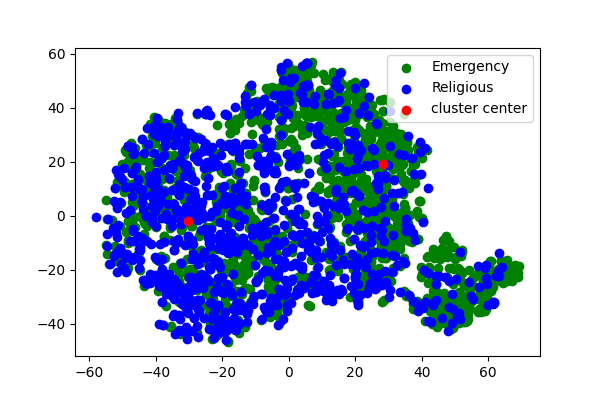
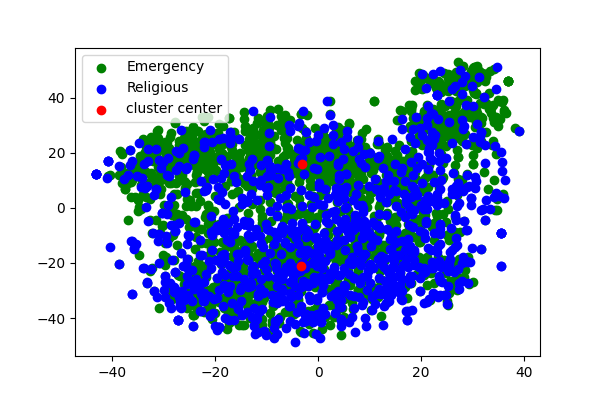
modified:   prototype/2_cluster_plot.png 	modified:   prototype/clustering.py 	modified:   prototype/imagemap.png

diff --git a/prototype/clustering.py b/prototype/clustering.py
@@ -69,10 +69,48 @@ feat = np.array(list(data.values()))
 # reshape so that there are 210 samples of 4096 vectors
 feat = feat.reshape(-1,4096)
 # reduce the amount of dimensions in the feature vector
-pca = PCA(n_components=10, random_state=22)
-pca.fit(feat)
-x = pca.transform(feat)
-
+maxp=0
+maxk=0
+maxs=0
+for n in range(1,101): #need to update for real runs
+    pca = PCA(n_components=n, random_state=22)
+    pca.fit(feat)
+    x = pca.transform(feat)
+    print(sum(pca.explained_variance_ratio_))
+    for k in range(2,50):
+        kmeans=KMeans(n_clusters=k,random_state=22)
+        kmeans.fit(x)
+        counts=np.bincount(kmeans.labels_)
+        if len(np.where(counts>1)[0])!=k: #check to ensure clusters have more than 1 element
+            continue
+        emergency_counts=[]
+        religious_counts=[]
+        for i in range(k):
+            emergency_counts.append(0)
+            religious_counts.append(0)
+        for file, cluster in zip(filenames, kmeans.labels_):
+            if emergency==os.path.dirname(file):
+                emergency_counts[cluster]+=1
+            elif religious==os.path.dirname(file):
+                religious_counts[cluster]+=1
+        emergency_success=0
+        religious_success=0
+        for i in range(k):
+            if emergency_counts[i]>religious_counts[i]:
+                emergency_success+=emergency_counts[i]
+            if emergency_counts[i]<religious_counts[i]:
+                religious_success+=religious_counts[i]
+        #these are hardcoded because I'm lazy
+        total_success=(emergency_success+religious_success)/2443
+        print("Current n,k: %d, %d" %(n,k))
+        print("Emergency success %:"+str(emergency_success/1462))
+        print("Relgiious success %:"+str(religious_success/981))
+        print("Total success %:"+str(total_success))
+        if total_success>maxs:
+            maxs=total_success
+            maxp=n
+            maxk=k
+print("Maximum n,k,success: %d, %d, %f" %(maxp,maxk,maxs))
 # cluster feature vectors
 k=2
 kmeans = KMeans(n_clusters=k,random_state=22) #as there should only be 2 clusters
